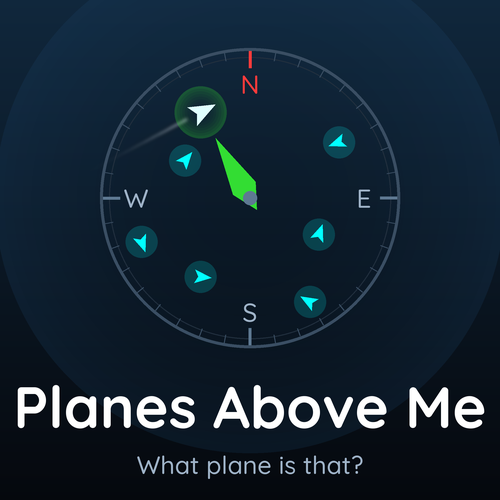
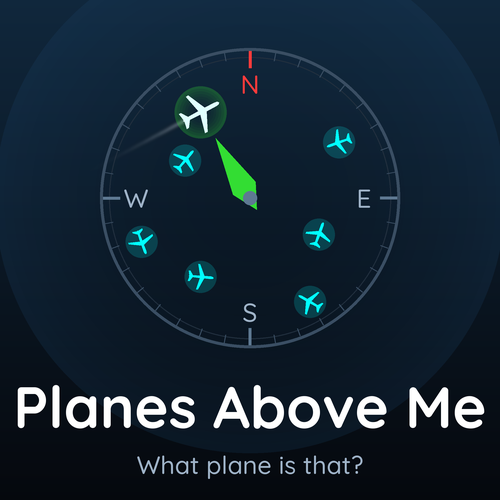
Cover: airplane silhouettes instead of the radar triangles

diff --git a/scripts/make_cover.py b/scripts/make_cover.py
@@ -2,7 +2,7 @@
 """Generate the Connect IQ Store cover image (500x500) for Planes Above Me.
 
 Same style as the cover of the sister app Ahead: a dark gradient, the app's
-compass ring, nearby aircraft as cyan triangles pointing along their ground
+compass ring, nearby aircraft as cyan airplane silhouettes heading along their ground
 track, and the green arrow pointing at the aircraft you are facing, with its
 contrail. Rendered at 4x and downsampled with LANCZOS. Pure Pillow, no network.
 
@@ -39,12 +39,17 @@ def polar(bearing_deg, dist):
     return (CX + dist * math.sin(th), CY - dist * math.cos(th))
 
 
-def triangle(d, x, y, ang, size, color):
-    """MainView.drawTriangle: arrowhead pointing at ang (0 = up, clockwise)."""
+# Airliner seen from above, nose up, in units of the half length (right half; mirrored)
+PLANE_HALF = [(0.0, -1.0), (0.07, -0.94), (0.10, -0.80), (0.10, -0.28), (0.98, 0.14), (0.98, 0.27),
+              (0.10, 0.06), (0.08, 0.62), (0.40, 0.84), (0.40, 0.95), (0.05, 0.88), (0.0, 0.92)]
+
+
+def airplane(d, x, y, ang, size, color):
+    """Airplane silhouette pointing at ang (0 = up, clockwise), half length size."""
+    pts = PLANE_HALF + [(-px, py) for px, py in reversed(PLANE_HALF[1:-1])]
     a = math.radians(ang)
     s, c = math.sin(a), math.cos(a)
-    pts = [(0.0, -size), (0.62 * size, 0.55 * size), (0.0, 0.22 * size), (-0.62 * size, 0.55 * size)]
-    d.polygon([(x + px * c - py * s, y + px * s + py * c) for px, py in pts], fill=color)
+    d.polygon([(x + (px * c - py * s) * size, y + (px * s + py * c) * size) for px, py in pts], fill=color)
 
 
 def font(path, weight, px):
@@ -93,7 +98,7 @@ def main():
         ImageDraw.Draw(gl).ellipse([x - 16 * SS, y - 16 * SS, x + 16 * SS, y + 16 * SS], fill=PLANE + (45,))
         img = Image.alpha_composite(img, gl)
         d = ImageDraw.Draw(img)
-        triangle(d, x, y, trk, 11 * SS, PLANE)
+        airplane(d, x, y, trk, 13 * SS, PLANE)
 
     # the aircraft you are facing: contrail, glow and the larger triangle
     fb, frac, trk = -30, 0.66, 62
@@ -117,7 +122,7 @@ def main():
         gld.ellipse([fx - rr, fy - rr, fx + rr, fy + rr], fill=GREEN + (int(70 * (i / 10) ** 2),))
     img = Image.alpha_composite(img, gl)
     d = ImageDraw.Draw(img)
-    triangle(d, fx, fy, trk, 17 * SS, (0xE0, 0xFF, 0xFF))
+    airplane(d, fx, fy, trk, 21 * SS, (0xE0, 0xFF, 0xFF))
 
     # green direction arrow from the centre toward it (as MainView's arrow)
     tb = math.radians(fb)
